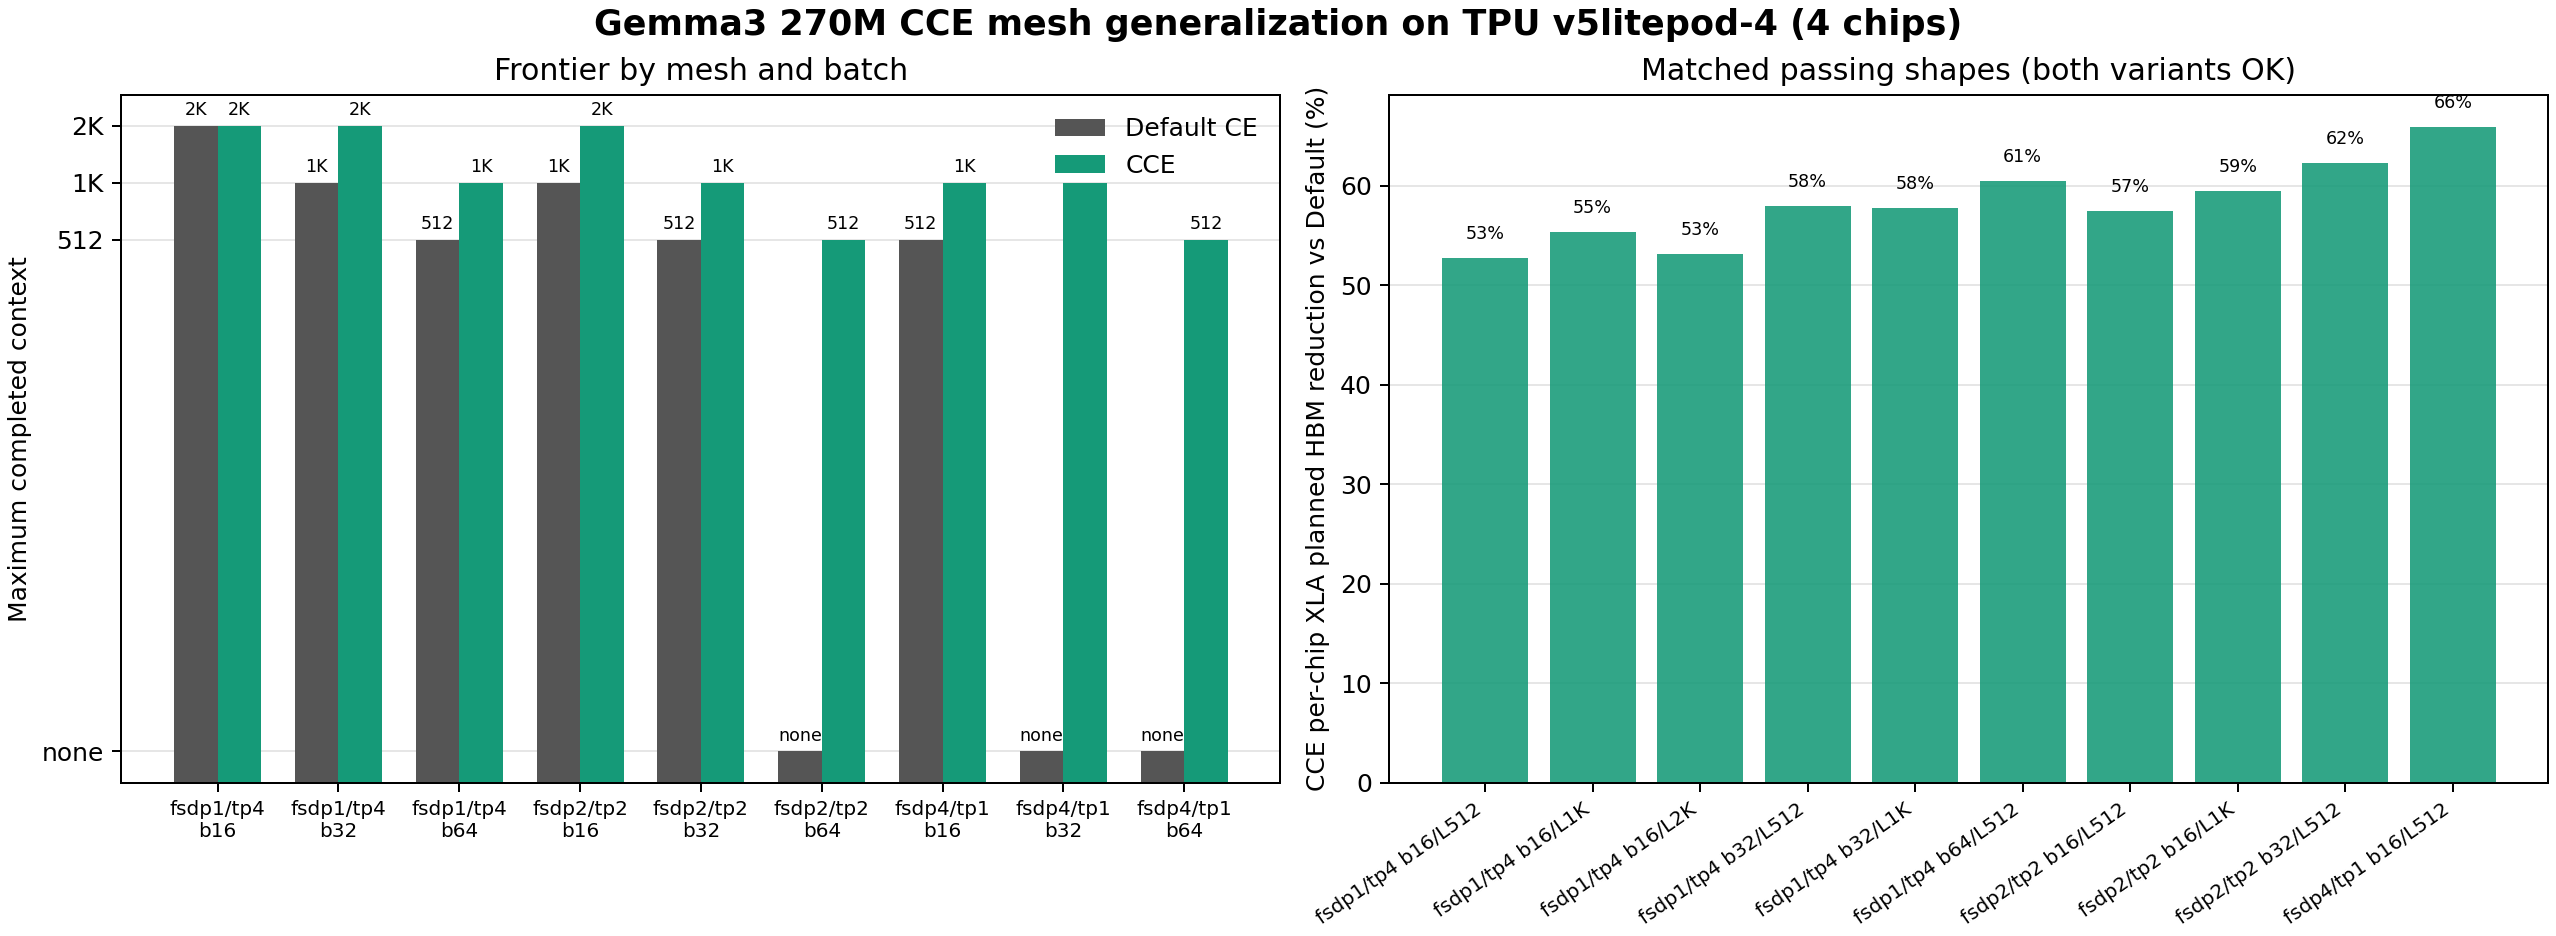
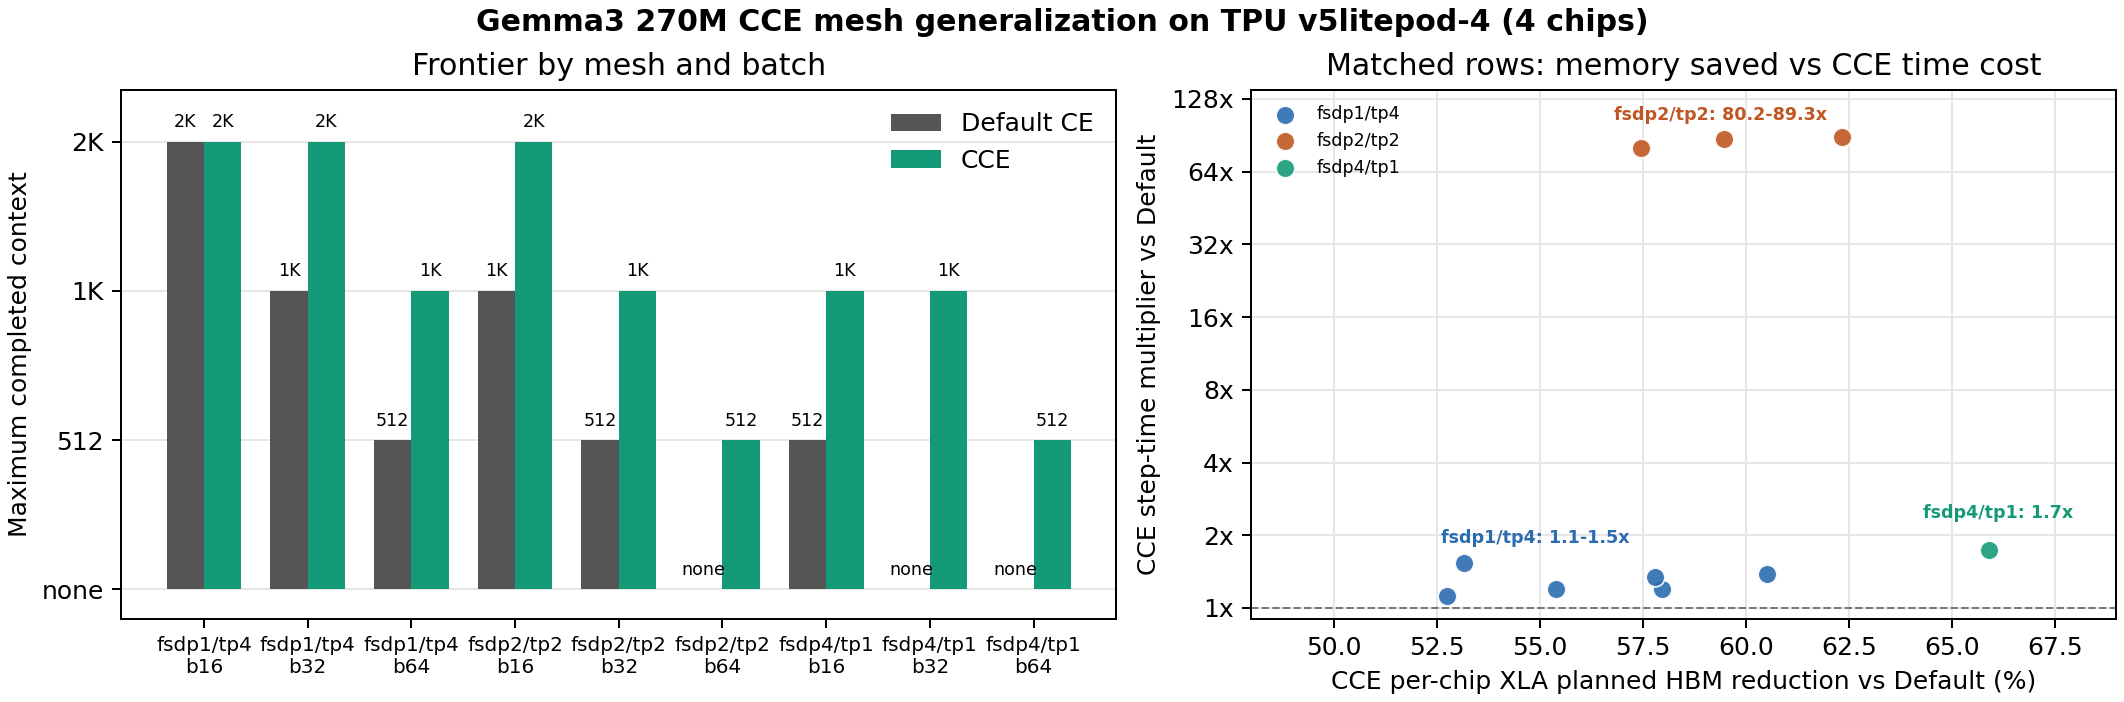
Clarify CCE mesh step-time overhead

diff --git a/01-CCE/collect_gemma3_270m_mesh_results.py b/01-CCE/collect_gemma3_270m_mesh_results.py
@@ -113,6 +113,14 @@ def build_matched(rows: pd.DataFrame) -> pd.DataFrame:
         - matched["xla_train_step_gib_per_chip_cce"]
         / matched["xla_train_step_gib_per_chip_default"]
     ) * 100
+  if {"mean_step_time_sec_excl_first_default", "mean_step_time_sec_excl_first_cce"} <= set(matched.columns):
+    matched["step_time_multiplier_cce_vs_default"] = (
+        matched["mean_step_time_sec_excl_first_cce"]
+        / matched["mean_step_time_sec_excl_first_default"]
+    )
+    matched["step_time_overhead_pct"] = (
+        matched["step_time_multiplier_cce_vs_default"] - 1
+    ) * 100
   return matched.sort_values(["mesh_fsdp", "mesh_tp", "batch_size", "max_length"])
 
 
@@ -121,14 +129,27 @@ def context_label(value: float) -> str:
   return f"{value // 1024}K" if value >= 1024 else str(value)
 
 
+def context_rank(value: float) -> int:
+  value = int(value)
+  if value <= 0:
+    return 0
+  return {512: 1, 1024: 2, 2048: 3}.get(value, int(math.log2(value // 512)) + 1)
+
+
 def plot_mesh(rows: pd.DataFrame, summary: pd.DataFrame, matched: pd.DataFrame) -> None:
   if rows.empty or summary.empty:
     return
   ASSET_DIR.mkdir(parents=True, exist_ok=True)
-  fig, axes = plt.subplots(1, 2, figsize=(14.2, 5.2), constrained_layout=True)
+  fig, axes = plt.subplots(
+      1,
+      2,
+      figsize=(11.8, 3.9),
+      gridspec_kw={"width_ratios": [1.15, 1.0]},
+      constrained_layout=True,
+  )
   fig.suptitle(
       "Gemma3 270M CCE mesh generalization on TPU v5litepod-4 (4 chips)",
-      fontsize=14,
+      fontsize=12,
       fontweight="bold",
   )
 
@@ -148,7 +169,8 @@ def plot_mesh(rows: pd.DataFrame, summary: pd.DataFrame, matched: pd.DataFrame) 
   width = 0.36
   for idx, variant in enumerate(["default", "cce"]):
     part = summary[summary["variant"].eq(variant)].set_index("shape")
-    heights = [max(part.loc[shape, "max_ok_context"], 1) if shape in part.index else math.nan for shape in shape_order]
+    values = [part.loc[shape, "max_ok_context"] if shape in part.index else math.nan for shape in shape_order]
+    heights = [context_rank(value) if not math.isnan(value) else math.nan for value in values]
     offset = (-0.5 + idx) * width
     bars = ax.bar(
         [x + offset for x in x_base],
@@ -157,20 +179,20 @@ def plot_mesh(rows: pd.DataFrame, summary: pd.DataFrame, matched: pd.DataFrame) 
         color=VARIANT_COLOR[variant],
         label=VARIANT_LABEL[variant],
     )
-    for bar, height in zip(bars, heights, strict=True):
+    for bar, value, height in zip(bars, values, heights, strict=True):
       if math.isnan(height):
         continue
-      label = "none" if height <= 1 else context_label(height)
+      label = "none" if int(value) <= 0 else context_label(value)
       ax.text(
           bar.get_x() + bar.get_width() / 2,
-          height * 1.08,
+          height + 0.07,
           label,
           ha="center",
           va="bottom",
           fontsize=7,
       )
-  ax.set_yscale("log", base=2)
-  ax.set_yticks([1, 512, 1024, 2048])
+  ax.set_ylim(-0.2, 3.35)
+  ax.set_yticks([0, 1, 2, 3])
   ax.set_yticklabels(["none", "512", "1K", "2K"])
   ax.set_xticks(x_base)
   ax.set_xticklabels(shape_order, fontsize=8)
@@ -181,34 +203,62 @@ def plot_mesh(rows: pd.DataFrame, summary: pd.DataFrame, matched: pd.DataFrame) 
   ax.legend(frameon=False)
 
   ax = axes[1]
-  if not matched.empty and "xla_reduction_pct" in matched:
-    plot_data = matched.dropna(subset=["xla_reduction_pct"]).copy()
-    plot_data["shape"] = plot_data.apply(
-        lambda row: f"{row['mesh']} b{int(row['batch_size'])}/L{context_label(row['max_length'])}",
-        axis=1,
-    )
+  required = {"xla_reduction_pct", "step_time_multiplier_cce_vs_default"}
+  if not matched.empty and required <= set(matched.columns):
+    plot_data = matched.dropna(subset=list(required)).copy()
     plot_data = plot_data.sort_values(["mesh_fsdp", "mesh_tp", "batch_size", "max_length"])
-    bars = ax.bar(
-        range(len(plot_data)),
-        plot_data["xla_reduction_pct"],
-        color="#159A78",
-        alpha=0.88,
-    )
-    for bar, value in zip(bars, plot_data["xla_reduction_pct"], strict=True):
-      ax.text(
-          bar.get_x() + bar.get_width() / 2,
-          value + 1.5,
-          f"{value:.0f}%",
-          ha="center",
-          va="bottom",
-          fontsize=7,
+    mesh_colors = {
+        "fsdp1/tp4": "#2B6CB0",
+        "fsdp2/tp2": "#C05621",
+        "fsdp4/tp1": "#159A78",
+    }
+    for mesh, part in plot_data.groupby("mesh", sort=False):
+      ax.scatter(
+          part["xla_reduction_pct"],
+          part["step_time_multiplier_cce_vs_default"],
+          s=56,
+          color=mesh_colors.get(mesh, "#555555"),
+          label=mesh,
+          alpha=0.9,
+          edgecolor="white",
+          linewidth=0.7,
       )
-    ax.set_xticks(range(len(plot_data)))
-    ax.set_xticklabels(plot_data["shape"], rotation=35, ha="right", fontsize=8)
-    ax.set_ylabel("CCE per-chip XLA planned HBM reduction vs Default (%)")
-    ax.set_title("Matched passing shapes (both variants OK)")
+    mesh_ranges = (
+        plot_data.groupby("mesh")["step_time_multiplier_cce_vs_default"]
+        .agg(["min", "max"])
+        .to_dict("index")
+    )
+    label_positions = {
+        "fsdp1/tp4": (52.6, 1.85),
+        "fsdp2/tp2": (56.8, 105),
+        "fsdp4/tp1": (64.3, 2.35),
+    }
+    for mesh, (x_pos, y_pos) in label_positions.items():
+      if mesh not in mesh_ranges:
+        continue
+      low = mesh_ranges[mesh]["min"]
+      high = mesh_ranges[mesh]["max"]
+      value = f"{low:.1f}x" if abs(high - low) < 0.1 else f"{low:.1f}-{high:.1f}x"
+      ax.text(
+          x_pos,
+          y_pos,
+          f"{mesh}: {value}",
+          fontsize=7,
+          color=mesh_colors.get(mesh, "#333333"),
+          fontweight="bold",
+      )
+    ax.axhline(1.0, color="#777777", linewidth=0.8, linestyle="--")
+    ax.set_yscale("log", base=2)
+    ax.set_ylim(0.9, 140)
+    ax.set_yticks([1, 2, 4, 8, 16, 32, 64, 128])
+    ax.set_yticklabels(["1x", "2x", "4x", "8x", "16x", "32x", "64x", "128x"])
+    ax.set_xlim(48, 69)
+    ax.set_xlabel("CCE per-chip XLA planned HBM reduction vs Default (%)")
+    ax.set_ylabel("CCE step-time multiplier vs Default")
+    ax.set_title("Matched rows: memory saved vs CCE time cost")
     ax.set_axisbelow(True)
-    ax.grid(True, axis="y", color="#E6E6E6")
+    ax.grid(True, color="#E6E6E6")
+    ax.legend(frameon=False, fontsize=7, loc="upper left")
   else:
     ax.text(0.5, 0.5, "No matched passing rows yet", ha="center", va="center")
     ax.axis("off")

diff --git a/01-CCE/TECHNICAL_REPORT.md b/01-CCE/TECHNICAL_REPORT.md
@@ -172,14 +172,21 @@ The frontier also moved in each mesh:
 | `fsdp=1,tp=4` | 32 | 1024 | 2048 |
 | `fsdp=1,tp=4` | 64 | 512 | 1024 |
 
-The tradeoff is mesh-dependent. FSDP-only timing looked similar to the
-single-chip story: at b16/L512, step time moved from 0.238s to 0.413s. TP-heavy
-layouts were much slower in this small-model synthetic check; for example,
-`fsdp=1,tp=4` b32/L1024 moved from 22.8s to 30.7s, and `fsdp=2,tp=2` CCE rows
-were slower still. The clean interpretation is therefore: CCE is compatible
-with FSDP/TP sharding and still reduces per-chip memory, but mesh choice can
-dominate throughput. For Gemma3 270M, TP is useful as a compatibility stress
-test, not as the fastest training layout.
+The tradeoff is mesh-dependent, and the right panel separates CCE overhead from
+the base mesh cost by using matched rows where both variants completed. In the
+FSDP-only layout, CCE was about 1.7x slower at the matched b16/L512 shape. In
+the TP-only layout, CCE added a smaller 1.1-1.5x step-time multiplier across the
+matched rows, although the base TP layout itself was already slow for this small
+model. The mixed `fsdp=2,tp=2` layout is the outlier: matched CCE rows were
+about 80-89x slower than Default CE. That points to a poor interaction between
+the current CCE lowering and this particular sharding layout, not just to the
+generic cost of streaming cross entropy.
+
+The clean interpretation is therefore: CCE is compatible with FSDP/TP sharding
+and still reduces per-chip memory, but mesh choice can dominate throughput. For
+Gemma3 270M, TP is useful as a compatibility stress test, not as the fastest
+training layout; `fsdp=2,tp=2` should be treated as an optimization target
+rather than a recommended configuration.
 
 ## 5. Real EN-FR Training Parity
 